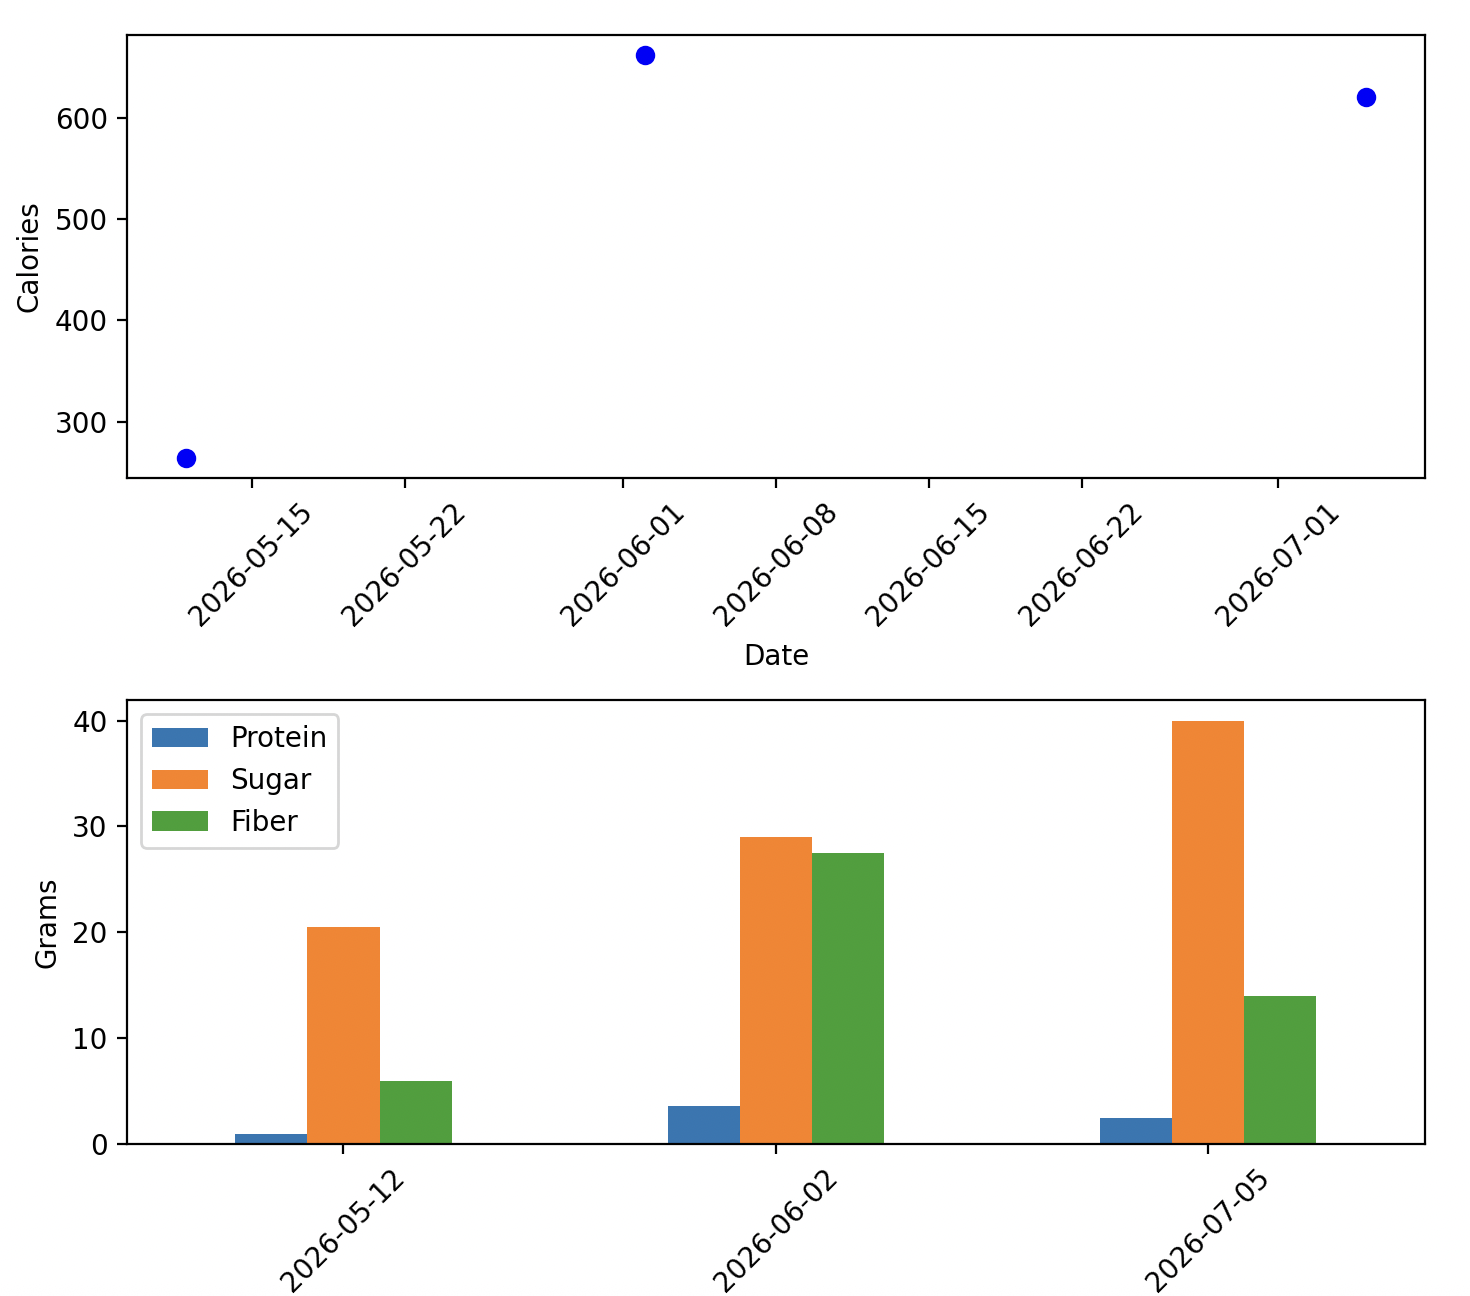
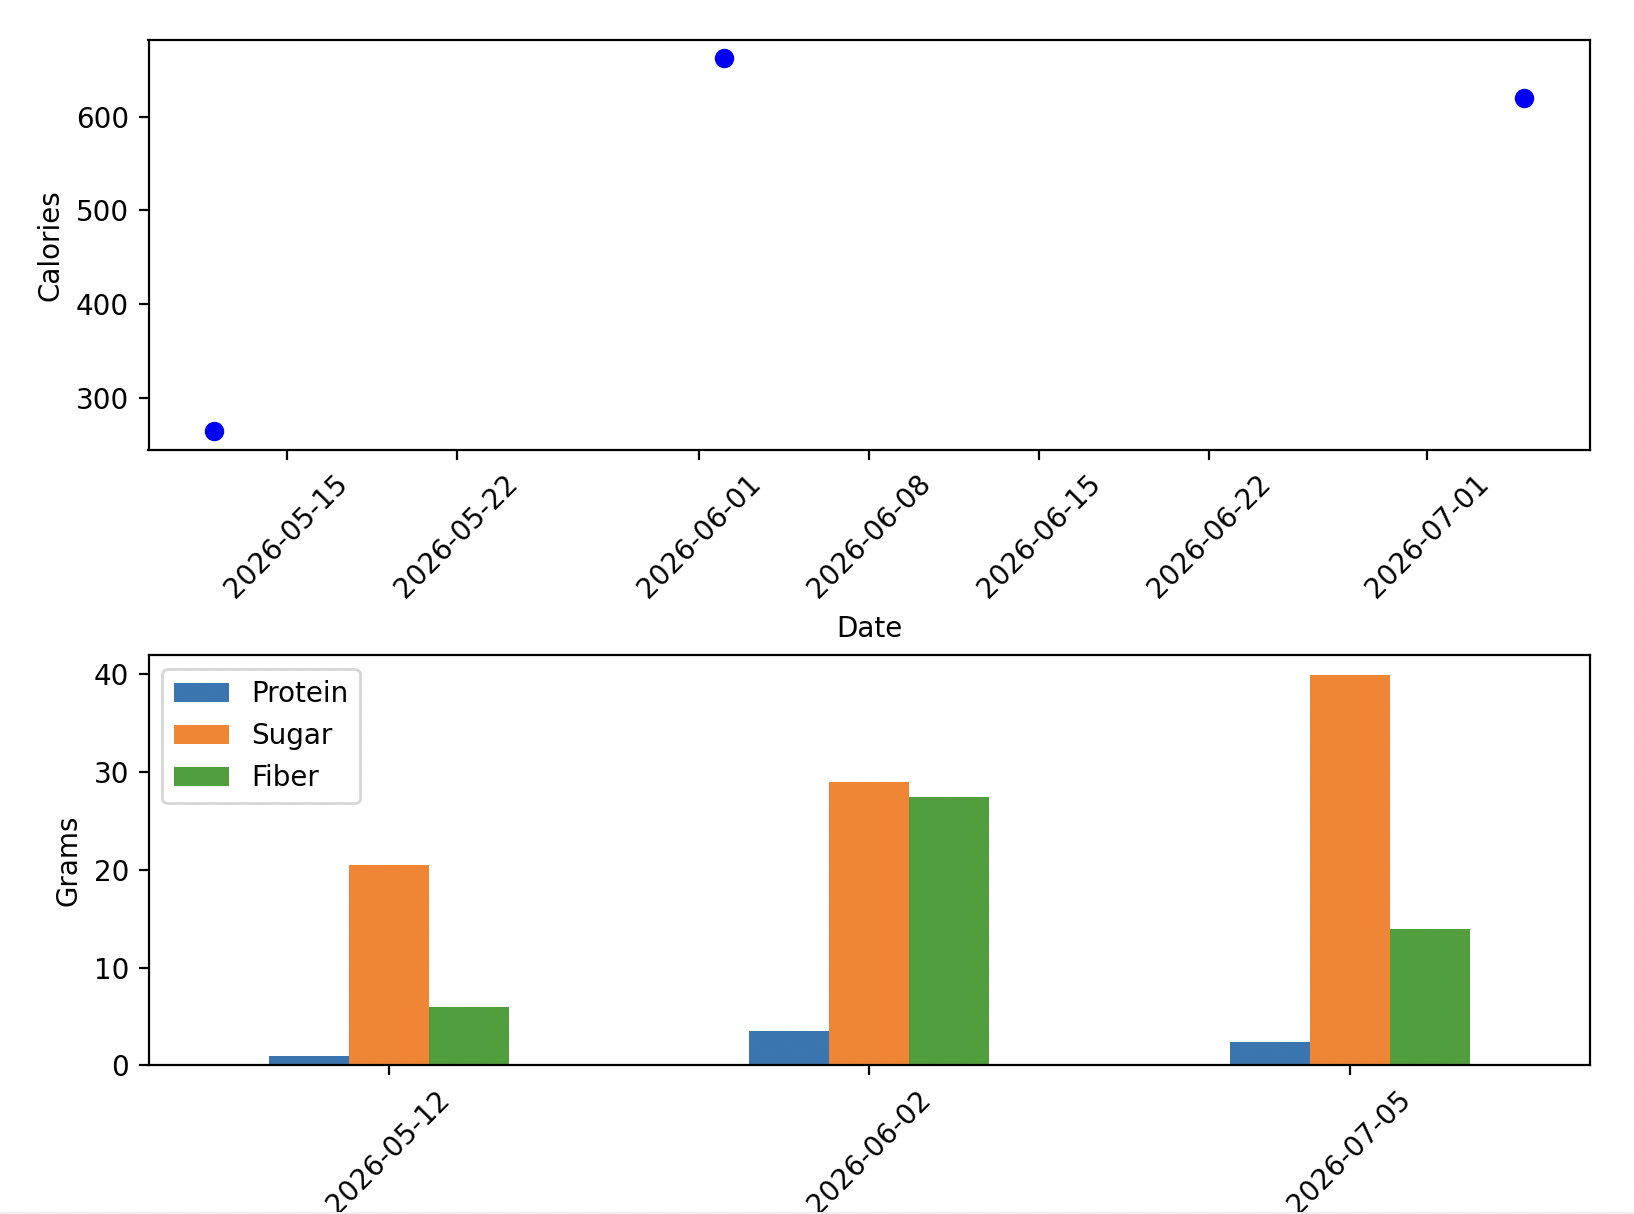
Manual debugging of plotting functions

diff --git a/src/forkwise/display_meal_totals.py b/src/forkwise/display_meal_totals.py
@@ -84,7 +84,6 @@ def display_meals_info(date_range: List[date], username: str, pw: str, path_to_c
 
     dates, daily_props = calc_daily_totals(meals_list=meals)
 
-    dates = []
     tot_cal = []
     tot_prot = []
     tot_sugar = []
@@ -125,20 +124,26 @@ def display_meal_breakdown(date_eaten: date, username: str, pw: str, path_to_con
     
     meals = get_meals(date_range=[date_eaten, date_eaten], username=username, pw=pw, path_to_config=path_to_config)
 
-    _, daily_props = calc_daily_totals(meals_list=meals)
+    _, all_props = calc_daily_totals(meals_list=meals)
 
-    _, axs = plt.subplots(2, 3)
-
-    axs[0].pie(x=daily_props.cal_list,labels=daily_props.recipe_names)
-    axs[0].set_title("Calories")
-    axs[1].pie(x=daily_props.prot_list,labels=daily_props.recipe_names)
-    axs[1].set_title("Protein (g)")
-    axs[2].pie(x=daily_props.sugar_list,labels=daily_props.recipe_names)
-    axs[2].set_title("Sugar (g)")
-    axs[3].pie(x=daily_props.fiber_list,labels=daily_props.recipe_names)
-    axs[3].set_title("Fiber (g)")
-    axs[4].pie(x=daily_props.fat,labels=daily_props.recipe_names)
-    axs[4].set_title("Fat (g)")
+    daily_props = all_props[0]
+    
+    fig = plt.figure()
+    ax00 = plt.subplot2grid((2,3),(0,0))
+    plt.pie(x=daily_props.cal_list,labels=daily_props.recipe_names)
+    ax00.set_title("Calories")
+    ax01 = plt.subplot2grid((2,3),(0,1))
+    plt.pie(x=daily_props.prot_list,labels=daily_props.recipe_names)
+    ax01.set_title("Protein (g)")
+    ax02 = plt.subplot2grid((2,3),(0,2))
+    plt.pie(x=daily_props.sugar_list,labels=daily_props.recipe_names)
+    ax02.set_title("Sugar (g)")
+    ax10 = plt.subplot2grid((2,3),(1,0))
+    plt.pie(x=daily_props.fiber_list,labels=daily_props.recipe_names)
+    ax10.set_title("Fiber (g)")
+    ax11 = plt.subplot2grid((2,3),(1,1))
+    plt.pie(x=daily_props.fat_list,labels=daily_props.recipe_names)
+    ax11.set_title("Fat (g)")
 
     plt.show()
 

diff --git a/README.md b/README.md
@@ -119,13 +119,28 @@ python ./src/forkwise/display_meal_totals.py <username> <user pw> <start_date> <
 ```
 where `start_date` and `end_date` are in ISO format of YYYY-MM-DD.
 
-For example, if `test_fork_db.py` has run but without the teardown method, and you run: (note you'll have to modify `config.yml` to point at `test_fork_db`)
+If you comment out `test_fork_db.py` teardown method so the testing db persists, and temporarily modify `config.yaml` to point at `test_fork_db`,
+and run:
 ```
 python ./src/forkwise/display_meal_totals.py test_fork_user pw 2026-05-12 2026-07-05
 ```
 the result is this plot:
 
 ![Ex meals plot](img/Ex_PlotMeals.png)
+
+To view pie charts breaking down daily nutritional content by recipe for a single `date`:
+```
+python ./src/forkwise/display_meal_totals.py <username> <user pw> <date> <date>
+```
+(ie the second two args must be the same; `date` in ISO format of YYYY-MM-DD again).
+
+If you comment out `test_fork_db.py` teardown method so the testing db persists, and temporarily modify `config.yaml` to point at `test_fork_db`,
+and run:
+```
+python ./src/forkwise/display_meal_totals.py test_fork_user pw 2026-07-05 2026-07-05
+```
+the result is:
+![Ex meal breakdown plot](img/Ex_PlotMealBreakdowns.png)
 
 ## Getting started
 
